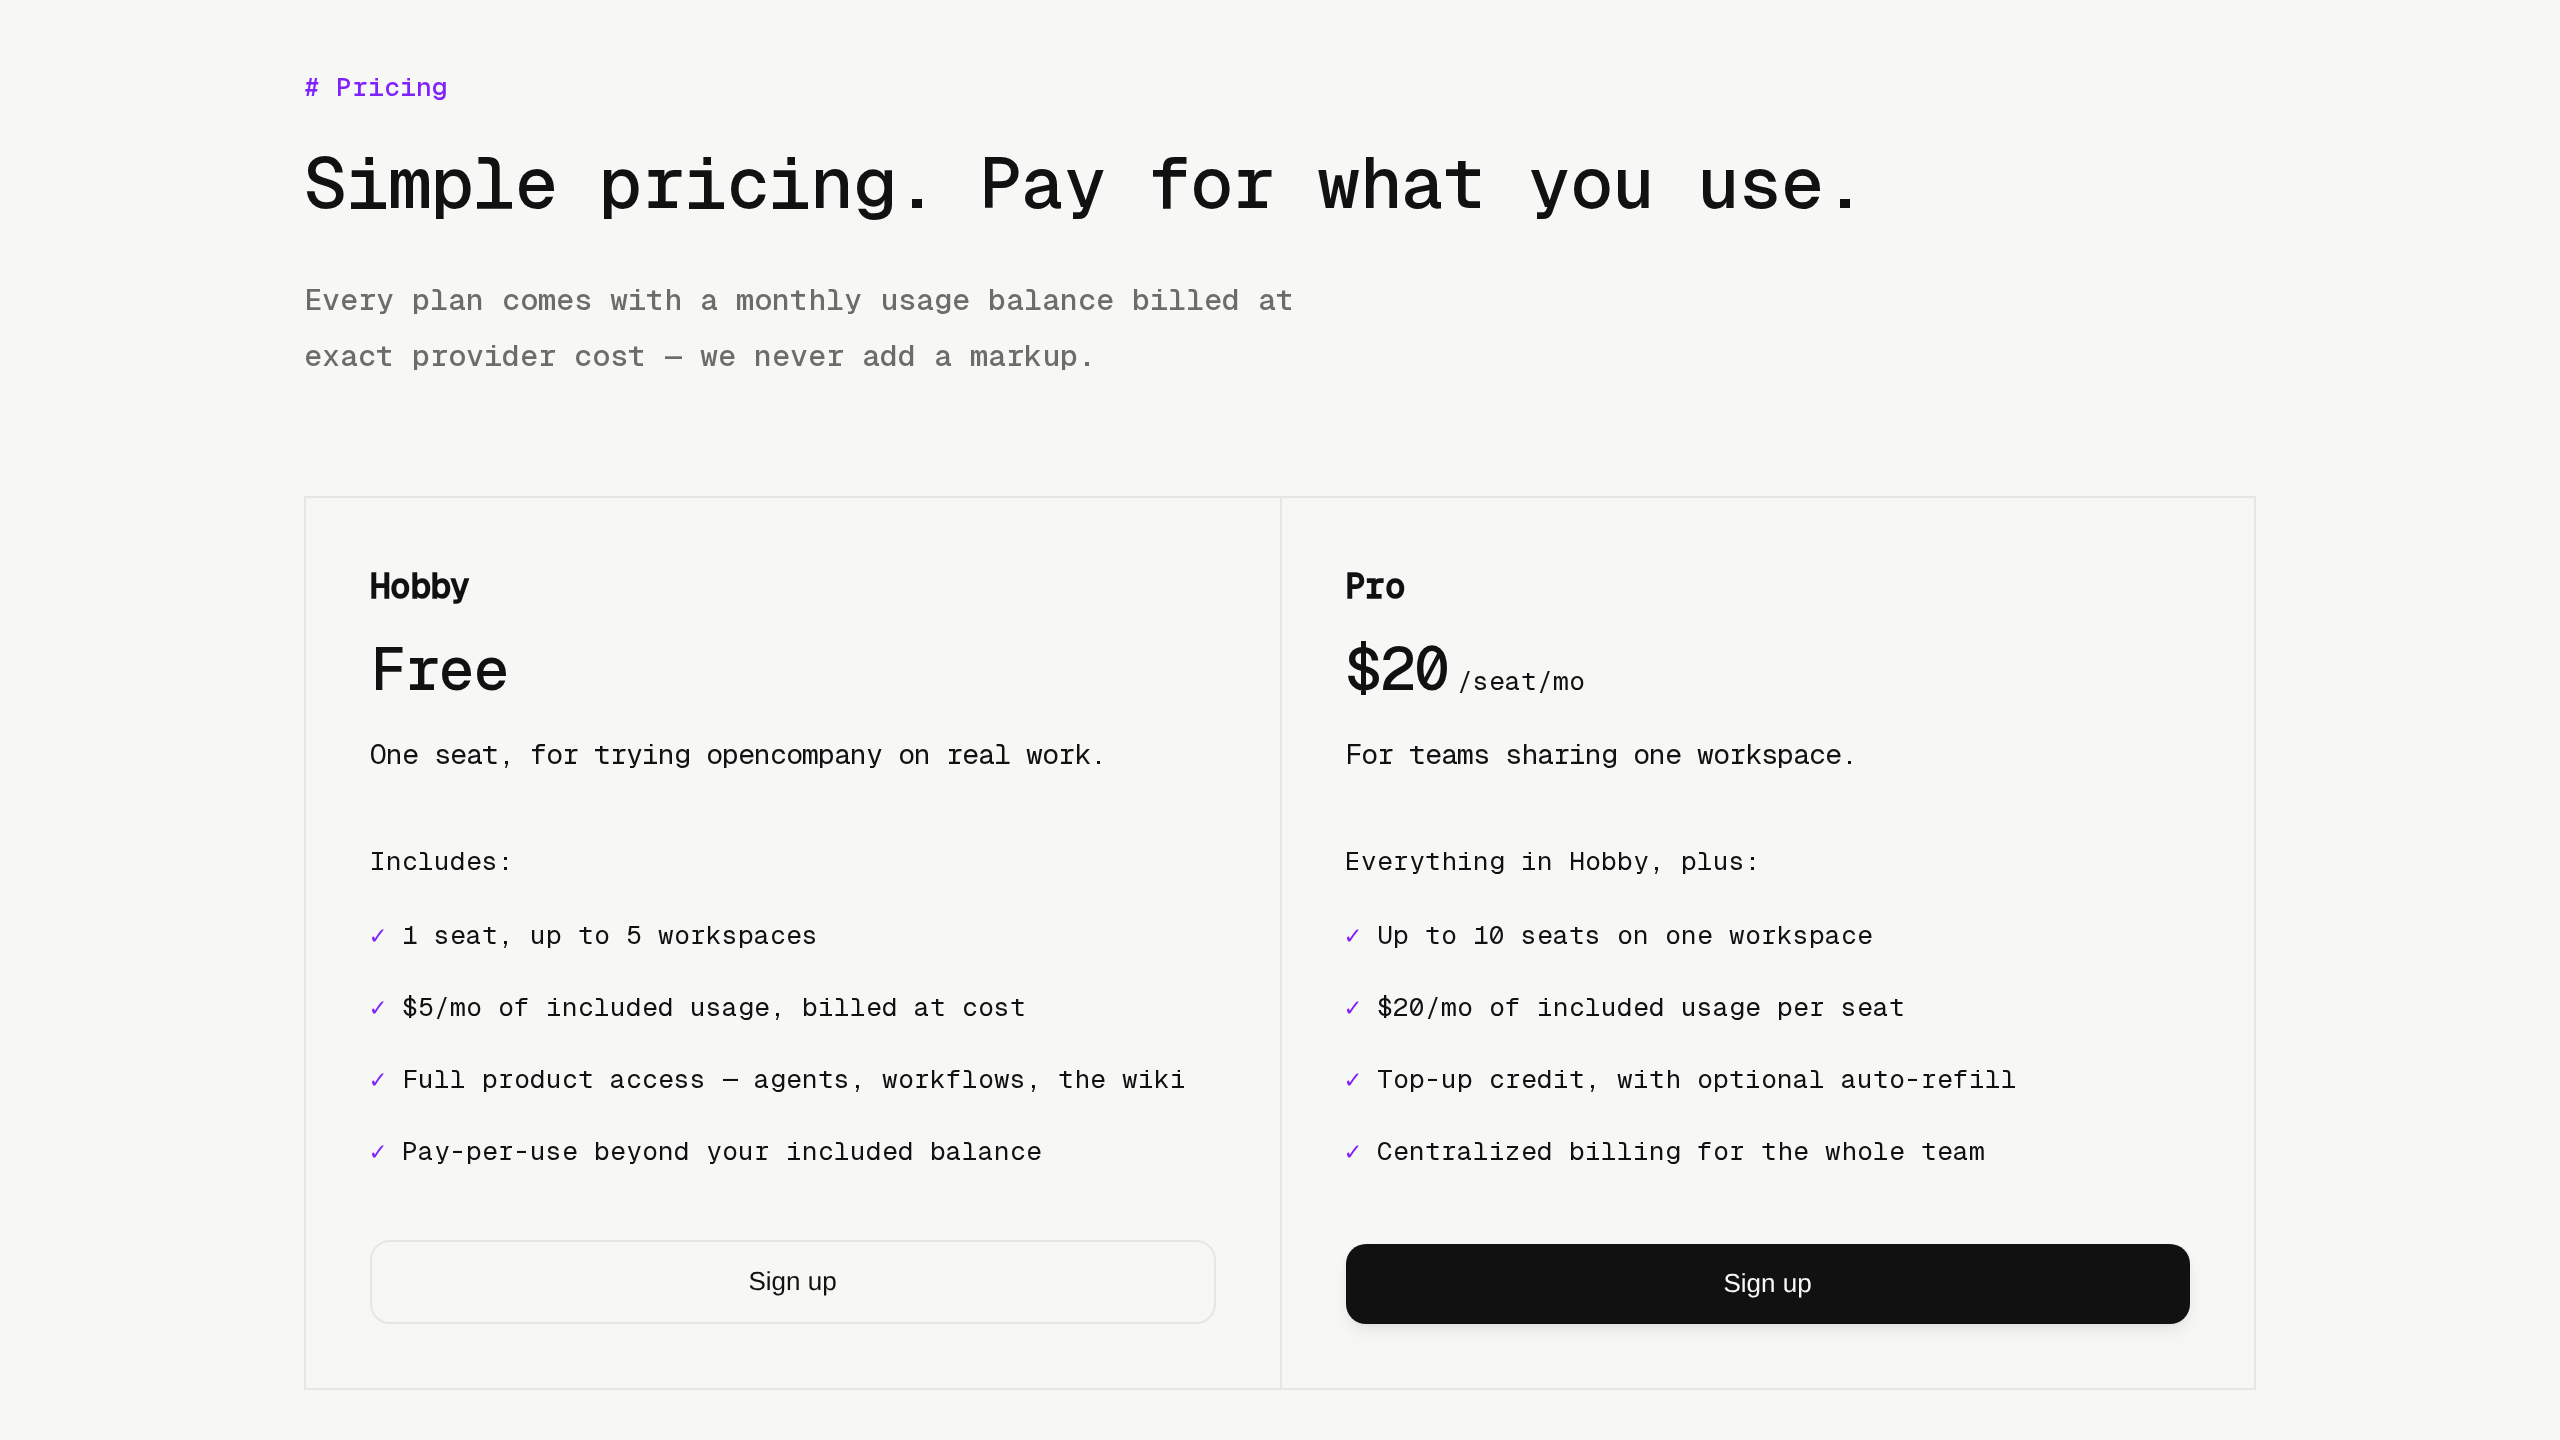
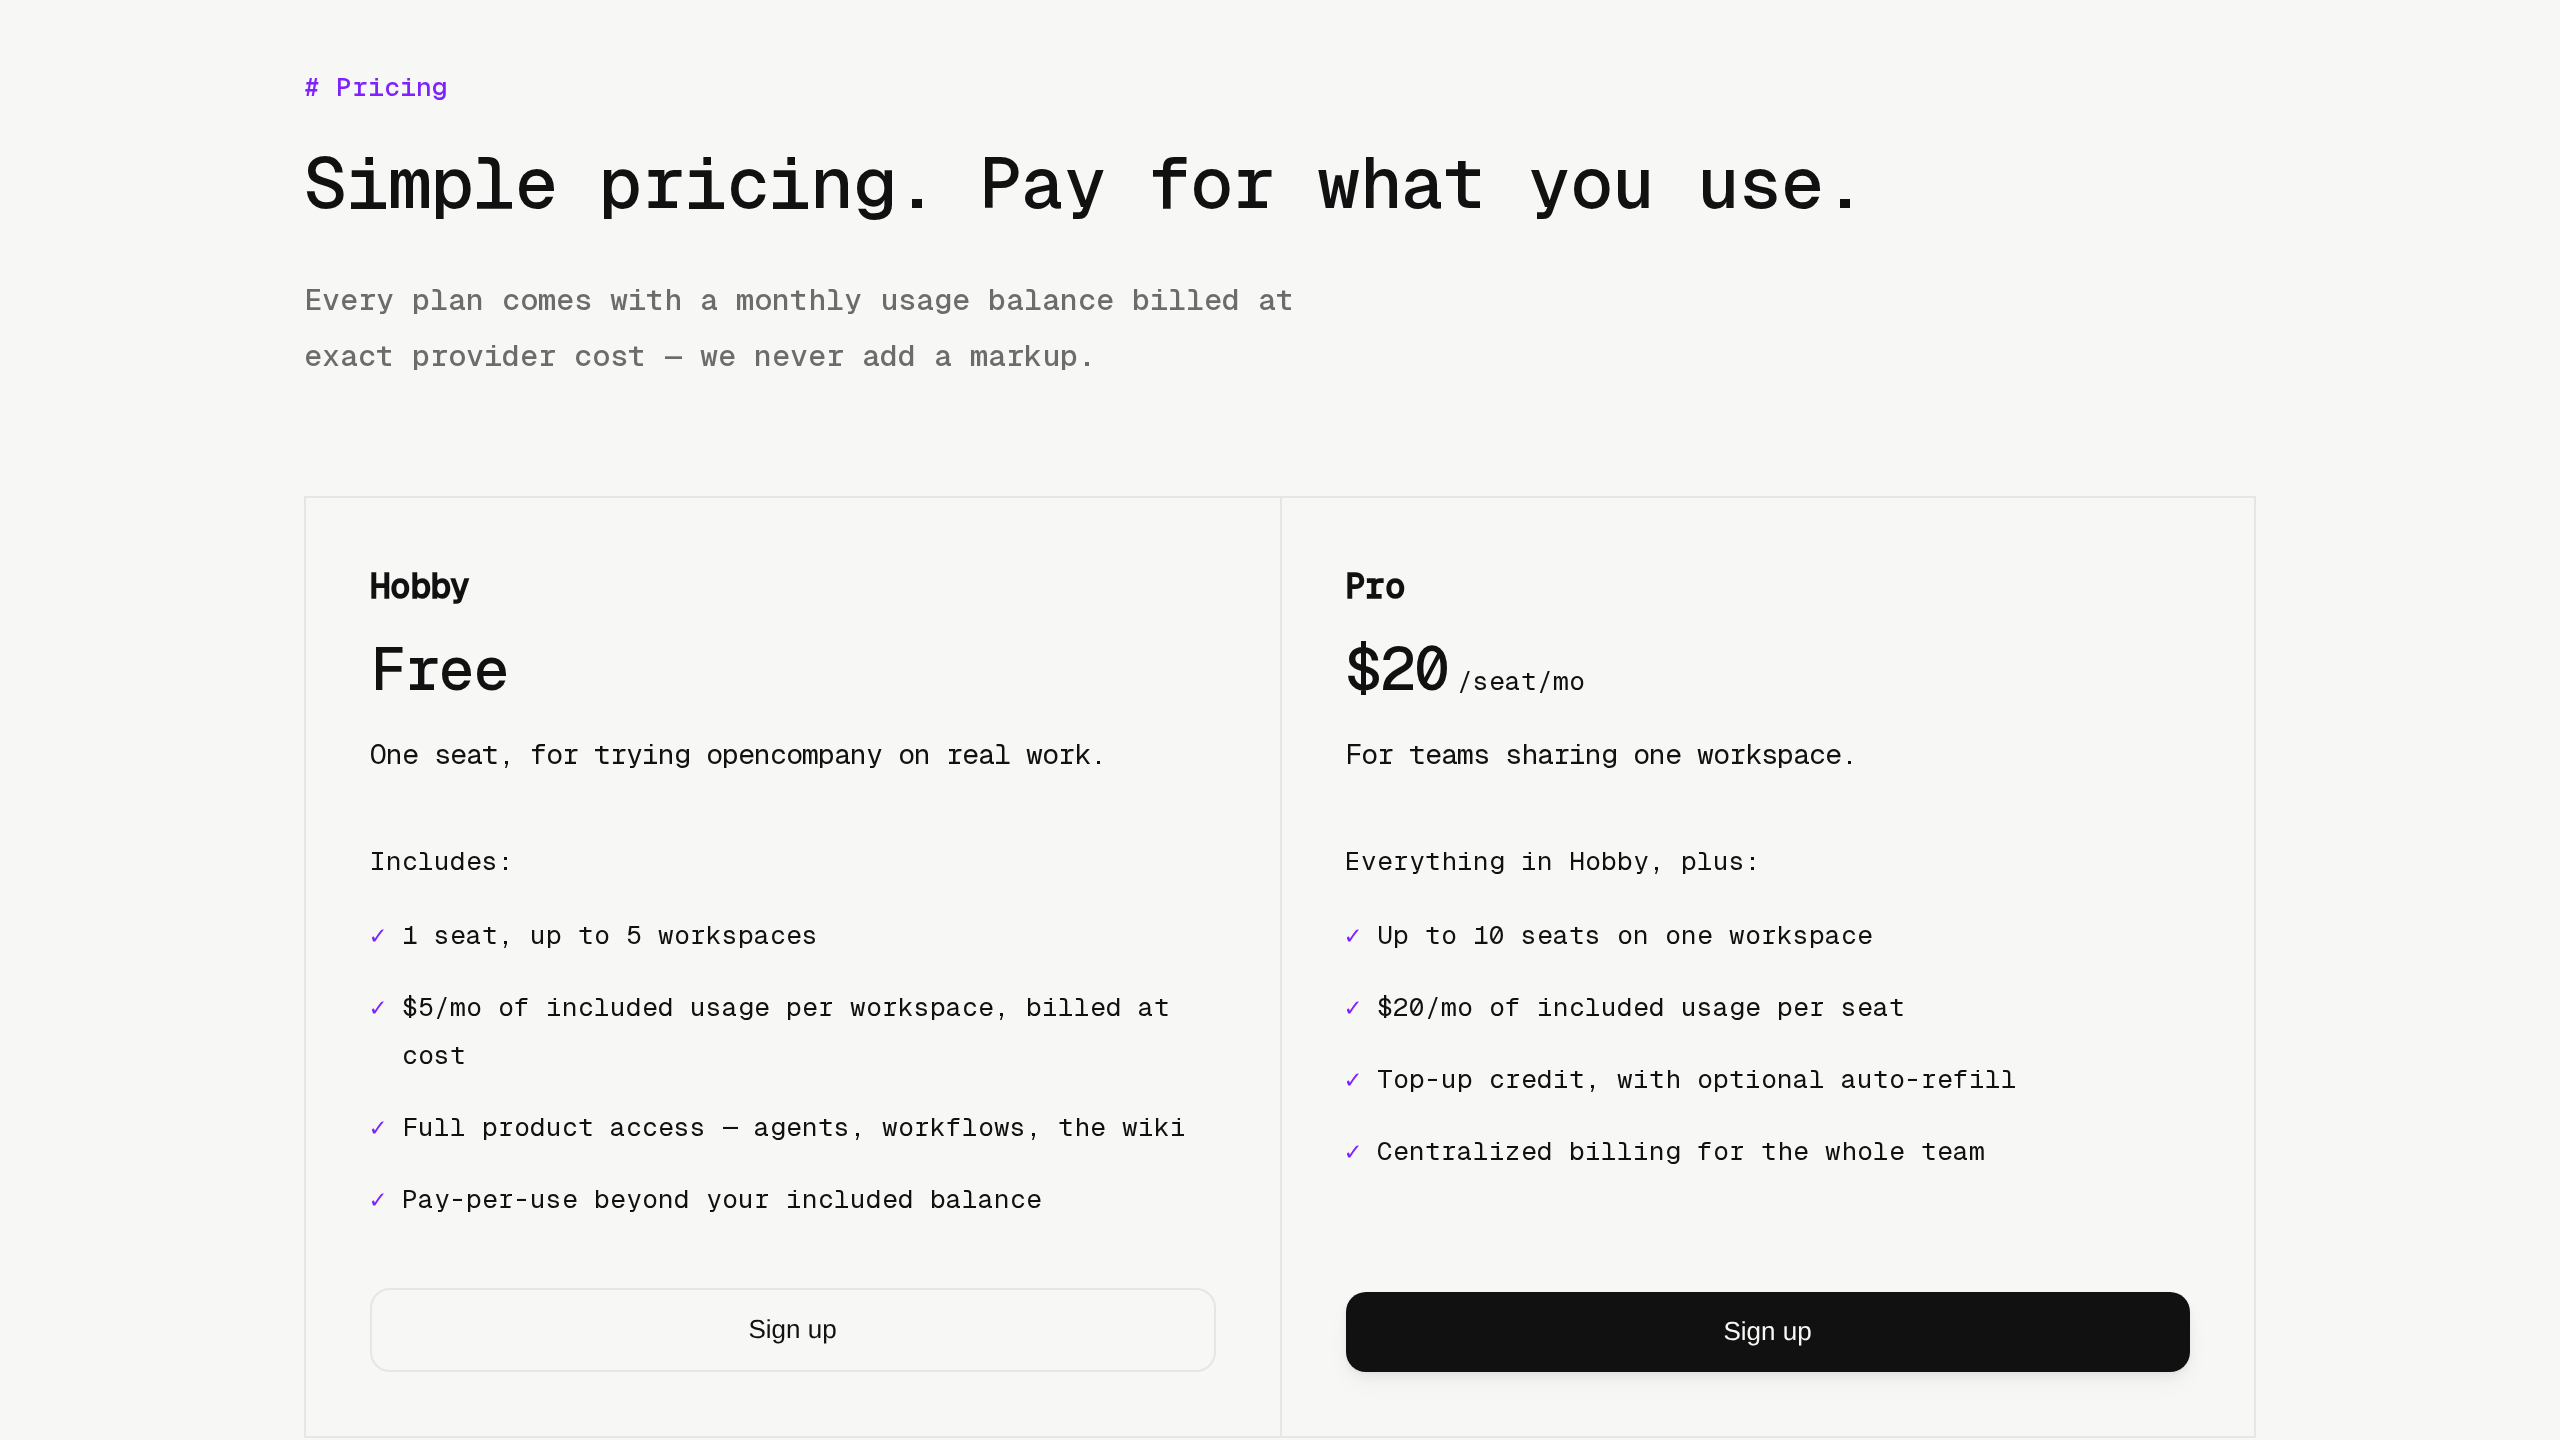
fix: address self-review on the Hobby workspace cap
- Pricing page said "$5 on Hobby" while the allowance is granted per
  workspace. With five workspaces that understated the entitlement, so
  both the card and the FAQ now say per workspace.
- The workspace-control tests mocked HOBBY_MAX_WORKSPACES with a literal,
  so they would have kept passing if the real constant moved. They now
  read it from the client-safe billing-constants module.
- Added PGlite coverage for countOwnedHobbyWorkspaces: workspaces with no
  billing row yet count, a "pro" plan without the paid product key
  counts, other people's workspaces do not.

diff --git a/packages/db/src/workspaces.integration.test.ts b/packages/db/src/workspaces.integration.test.ts
@@ -1,0 +1,81 @@
+import type { PGlite } from "@electric-sql/pglite";
+import { drizzle } from "drizzle-orm/pglite";
+import { beforeAll, beforeEach, describe, expect, it } from "vitest";
+import { PRO_STRIPE_PRODUCT_KEY } from "./billing-constants";
+import { snapshotPGliteSchema } from "./test-schema-snapshot";
+import { countOwnedHobbyWorkspaces, findOwnedHobbyWorkspace } from "./workspaces";
+
+describe("owned Hobby workspaces", () => {
+  let db: ReturnType<typeof drizzle>;
+  let restoreDatabase: () => Promise<PGlite>;
+
+  beforeAll(async () => {
+    restoreDatabase = await snapshotPGliteSchema(async (database) => {
+      await database.exec(`
+        CREATE SCHEMA goat;
+        CREATE TABLE goat.workspaces (
+          id text PRIMARY KEY, name text NOT NULL, created_by_workos_id text NOT NULL,
+          created_at timestamptz NOT NULL DEFAULT now()
+        );
+        CREATE TABLE goat.workspace_billing (
+          workspace_id text PRIMARY KEY REFERENCES goat.workspaces(id) ON DELETE CASCADE,
+          plan text NOT NULL DEFAULT 'hobby', stripe_product_key text
+        );
+      `);
+    });
+  });
+
+  beforeEach(async () => {
+    db = drizzle(await restoreDatabase());
+  });
+
+  async function addWorkspace(
+    id: string,
+    creator: string,
+    billing?: { plan: string; stripeProductKey: string | null },
+  ) {
+    await db.execute(
+      `INSERT INTO goat.workspaces (id, name, created_by_workos_id) VALUES ('${id}', '${id}', '${creator}')`,
+    );
+    if (!billing) return;
+    await db.execute(
+      `INSERT INTO goat.workspace_billing (workspace_id, plan, stripe_product_key)
+       VALUES ('${id}', '${billing.plan}', ${billing.stripeProductKey === null ? "NULL" : `'${billing.stripeProductKey}'`})`,
+    );
+  }
+
+  it("counts only the non-Pro workspaces the user created", async () => {
+    // No billing row at all is the state a freshly provisioned workspace is in
+    // between creation and its first billing write, and it still counts.
+    await addWorkspace("ws_no_billing", "user_1");
+    await addWorkspace("ws_hobby", "user_1", { plan: "hobby", stripeProductKey: null });
+    await addWorkspace("ws_pro", "user_1", {
+      plan: "pro",
+      stripeProductKey: PRO_STRIPE_PRODUCT_KEY,
+    });
+    // A "pro" plan without the paid product key is not a paid subscription.
+    await addWorkspace("ws_pro_unpaid", "user_1", { plan: "pro", stripeProductKey: null });
+    await addWorkspace("ws_other_owner", "user_2", { plan: "hobby", stripeProductKey: null });
+
+    await expect(countOwnedHobbyWorkspaces("user_1", { db })).resolves.toBe(3);
+    await expect(countOwnedHobbyWorkspaces("user_2", { db })).resolves.toBe(1);
+    await expect(countOwnedHobbyWorkspaces("user_unknown", { db })).resolves.toBe(0);
+  });
+
+  it("agrees with the single-workspace lookup on what it counts", async () => {
+    await addWorkspace("ws_pro", "user_1", {
+      plan: "pro",
+      stripeProductKey: PRO_STRIPE_PRODUCT_KEY,
+    });
+
+    await expect(countOwnedHobbyWorkspaces("user_1", { db })).resolves.toBe(0);
+    await expect(findOwnedHobbyWorkspace("user_1", { db })).resolves.toBeNull();
+
+    await addWorkspace("ws_hobby", "user_1", { plan: "hobby", stripeProductKey: null });
+
+    await expect(countOwnedHobbyWorkspaces("user_1", { db })).resolves.toBe(1);
+    await expect(findOwnedHobbyWorkspace("user_1", { db })).resolves.toMatchObject({
+      id: "ws_hobby",
+    });
+  });
+});

diff --git a/apps/api/src/workspace-control.test.ts b/apps/api/src/workspace-control.test.ts
@@ -3,6 +3,7 @@ import { provisionWorkspace } from "@opencompany/agent/workspaces/provisioning";
 import { syncStripeSeatQuantityForWorkspace } from "@opencompany/billing/seats";
 import type { Actor } from "@opencompany/core";
 import { getWorkspacePlan } from "@opencompany/db/billing";
+import { HOBBY_MAX_WORKSPACES } from "@opencompany/db/billing-constants";
 import {
   countOwnedHobbyWorkspaces,
   getWorkspaceSandboxSize,
@@ -19,10 +20,12 @@ vi.mock("@opencompany/billing/seats", () => ({
   syncStripeSeatQuantityForWorkspace: vi.fn(async () => ({ ok: true, changed: true })),
 }));
 
-vi.mock("@opencompany/db/billing", () => ({
+// billing-constants is client-safe, so the cap the service enforces comes from
+// the real module rather than a literal that could drift from it.
+vi.mock("@opencompany/db/billing", async () => ({
   getWorkspacePlan: vi.fn(async () => "pro"),
-  HOBBY_MAX_WORKSPACES: 5,
   workspaceMemberCap: (plan: string) => (plan === "pro" ? 10 : 1),
+  HOBBY_MAX_WORKSPACES: (await import("@opencompany/db/billing-constants")).HOBBY_MAX_WORKSPACES,
 }));
 
 vi.mock("@opencompany/db/workspaces", async (importOriginal) => ({
@@ -234,7 +237,7 @@ describe("workspace control service", () => {
   });
 
   it("still provisions while the caller is under the Hobby workspace cap", async () => {
-    vi.mocked(countOwnedHobbyWorkspaces).mockResolvedValue(4);
+    vi.mocked(countOwnedHobbyWorkspaces).mockResolvedValue(HOBBY_MAX_WORKSPACES - 1);
     const service = createWorkspaceControlService({
       db: dbWithWorkspace(),
       workos: workos as never,
@@ -247,7 +250,7 @@ describe("workspace control service", () => {
   });
 
   it("blocks creation once the caller owns the maximum Hobby workspaces", async () => {
-    vi.mocked(countOwnedHobbyWorkspaces).mockResolvedValue(5);
+    vi.mocked(countOwnedHobbyWorkspaces).mockResolvedValue(HOBBY_MAX_WORKSPACES);
     const service = createWorkspaceControlService({
       db: dbWithWorkspace(),
       workos: workos as never,
@@ -257,14 +260,13 @@ describe("workspace control service", () => {
       service.create(admin, { workspaceId: "workspace_new", name: "New Organization" }),
     ).rejects.toMatchObject({
       status: 409,
-      message:
-        "You already own 5 Hobby workspaces, the most a free account can have. Upgrade one to Pro to create another.",
+      message: `You already own ${HOBBY_MAX_WORKSPACES} Hobby workspaces, the most a free account can have. Upgrade one to Pro to create another.`,
     });
     expect(provisionWorkspace).not.toHaveBeenCalled();
   });
 
   it("replays a retried creation at the cap instead of reporting a conflict", async () => {
-    vi.mocked(countOwnedHobbyWorkspaces).mockResolvedValue(5);
+    vi.mocked(countOwnedHobbyWorkspaces).mockResolvedValue(HOBBY_MAX_WORKSPACES);
     vi.mocked(listWorkspacesForUser).mockResolvedValue([
       { workspace: { ...workspace, id: "workspace_new" }, role: "admin" },
     ] as never);

diff --git a/apps/marketing/app/pricing/page.tsx b/apps/marketing/app/pricing/page.tsx
@@ -40,7 +40,7 @@ const PRICING_FAQS = [
   },
   {
     q: "What counts as included usage?",
-    a: "A monthly balance for agent and model usage — $5 on Hobby, $20 per seat on Pro. It resets every calendar month and doesn't roll over.",
+    a: "A monthly balance for agent and model usage — $5 per workspace on Hobby, $20 per seat on Pro. It resets every calendar month and doesn't roll over.",
   },
   {
     q: "Can I top up if I'm running low?",

diff --git a/apps/marketing/components/marketing/Pricing.tsx b/apps/marketing/components/marketing/Pricing.tsx
@@ -19,7 +19,7 @@ const PLANS: Plan[] = [
     includesNote: "Includes:",
     features: [
       "1 seat, up to 5 workspaces",
-      "$5/mo of included usage, billed at cost",
+      "$5/mo of included usage per workspace, billed at cost",
       "Full product access — agents, workflows, the wiki",
       "Pay-per-use beyond your included balance",
     ],
